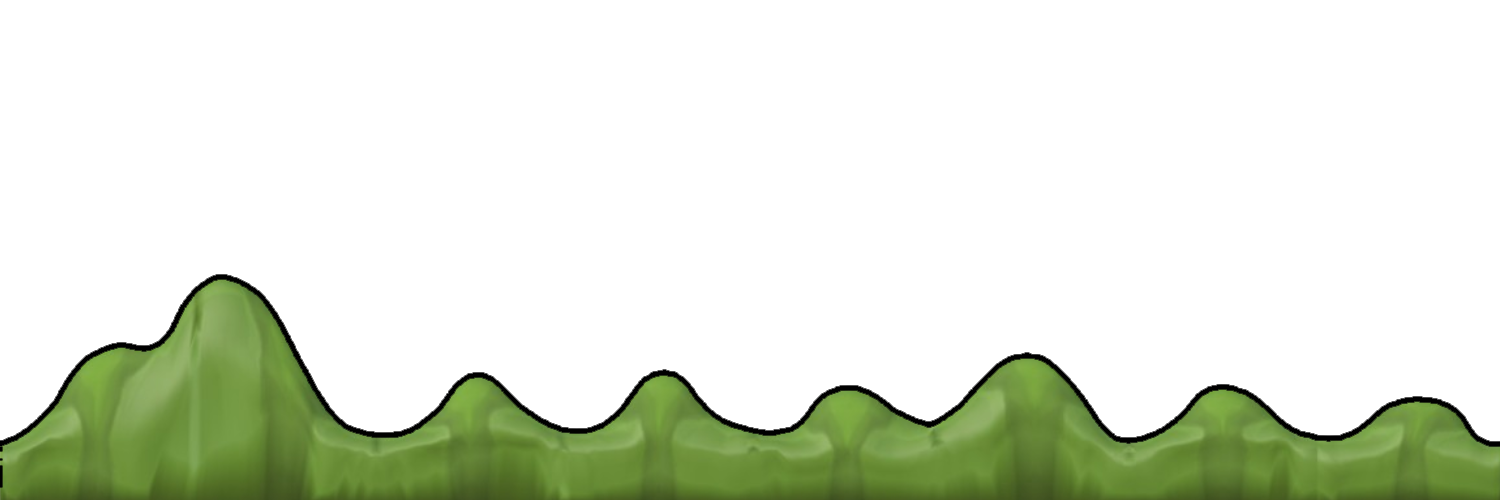
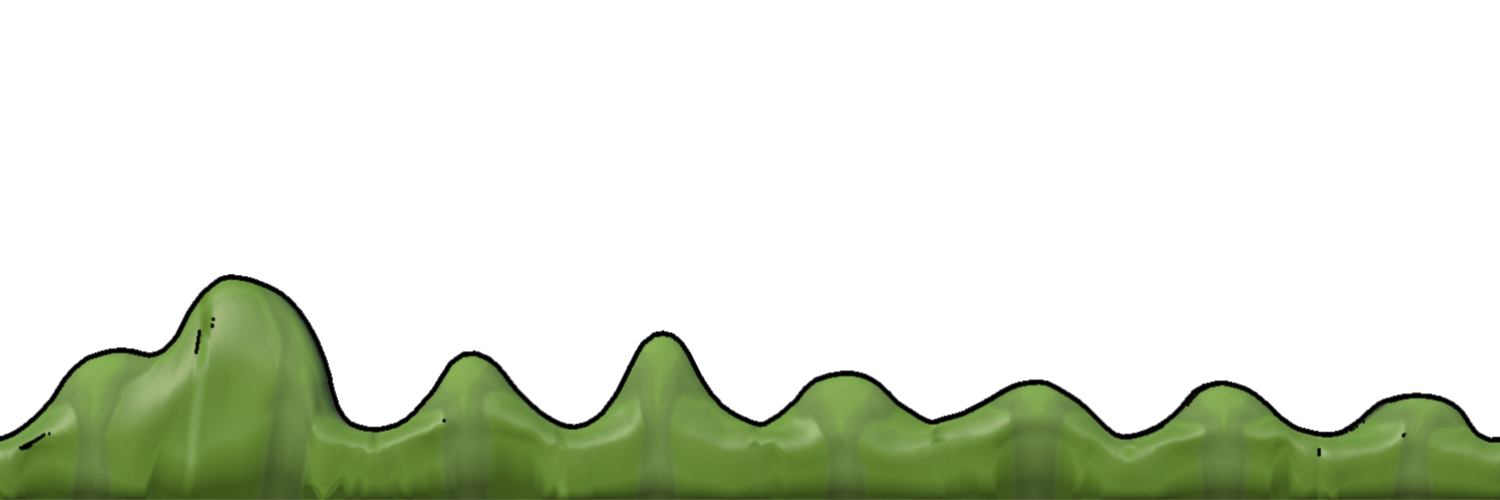
connard de commit qui marche pas

diff --git a/Game/LevelGenerator.cpp b/Game/LevelGenerator.cpp
@@ -7,14 +7,23 @@
 void LevelGenerator::Init(GameObject* playerObj) {
     player = playerObj;
 
-    hillAssets = { "Assets/Hchunk1.png" };
+    // Initialisation des listes d'assets
+    hillAssets = { "Assets/Hchunk1.png", "Assets/Hchunk2.png", "Assets/Hchunk3.png" };
     cloudAssets = { "Assets/Cchunk1.png", "Assets/Cchunk2.png", "Assets/Cchunk3.png" };
-    planetAssets = { "Assets/Pchunk.png" };
+    planetAssets = { "Assets/Pchunk1.png", "Assets/Pchunk2.png", "Assets/Pchunk.png" };
 
-    // Initialisation du sol
+    // Initialisation du sol (5 chunks de départ)
     for (int i = 0; i < 5; ++i) SpawnNextHill();
-    // Initialisation des premiers nuages et plan�tes
-    for (int i = 0; i < 3; ++i) SpawnCloud();
+
+    // Initialisation des nuages (3 colonnes de 2 étages = 6 nuages au total)
+    for (int i = 0; i < 3; ++i) {
+        SpawnCloudAt(nextCloudX, Y_CLOUD_LAYER_1);
+        SpawnCloudAt(nextCloudX, Y_CLOUD_LAYER_2);
+        nextCloudX += (CLOUD_WIDTH * CLOUD_SCALE);
+    }
+
+    // Initialisation planètes
+    for (int i = 0; i < 2; ++i) SpawnPlanet();
 }
 
 void LevelGenerator::Update(float dt) {
@@ -26,12 +35,14 @@ void LevelGenerator::Update(float dt) {
         SpawnNextHill();
     }
 
-    // Nuages : Succession sur deux �tages
+    // Nuages : On génère les deux couches en même temps sur l'axe X
     if (playerX + 5000.0f > nextCloudX) {
-        SpawnCloud();
+        SpawnCloudAt(nextCloudX, Y_CLOUD_LAYER_1);
+        SpawnCloudAt(nextCloudX, Y_CLOUD_LAYER_2);
+        nextCloudX += (CLOUD_WIDTH * CLOUD_SCALE);
     }
 
-    // Plan�tes : Succession infinie
+    // Planètes : Succession infinie
     if (playerX + 6000.0f > nextPlanetX) {
         SpawnPlanet();
     }
@@ -42,9 +53,9 @@ void LevelGenerator::SpawnNextHill() {
     GameObject* hill = nullptr;
 
     if (activeHills.size() < MAX_HILLS) {
-        hill = scene->CreateGameObject({ nextHillX, -20.0f }, "HillChunk");
+        hill = scene->CreateGameObject({ nextHillX, Y_GROUND }, "HillChunk");
         hill->GetTransform().scale = { HILL_SCALE, HILL_SCALE };
-        hill->SetZOrder(0);
+        hill->SetZOrder(10);
         auto* comp = hill->AddComponent<HillComponent>();
         comp->isOneWay = false;
         activeHills.push_back(hill);
@@ -53,30 +64,25 @@ void LevelGenerator::SpawnNextHill() {
         hill = activeHills.front();
         activeHills.erase(activeHills.begin());
         activeHills.push_back(hill);
-        hill->GetTransform().pos = { nextHillX, -20.0f };
+        hill->GetTransform().pos = { nextHillX, Y_GROUND };
     }
 
     auto* comp = hill->GetComponent<HillComponent>();
     if (comp) comp->InitFromImage(GetRandomAsset(hillAssets), 10);
 
-    nextHillX += (HILL_WIDTH * HILL_SCALE); // Succession exacte
+    nextHillX += (HILL_WIDTH * HILL_SCALE);
 }
 
-void LevelGenerator::SpawnCloud() {
+void LevelGenerator::SpawnCloudAt(float x, float targetY) {
     Scene* scene = owner->GetScene();
     GameObject* cloud = nullptr;
 
-    // Utilisation des variables CloudLayer1 et CloudLayer2
-    float targetY = alternateCloudHeight ? Y_CLOUD_LAYER_2 : Y_CLOUD_LAYER_1;
-    alternateCloudHeight = !alternateCloudHeight;
-
-    // Petite variation al�atoire pour casser la ligne droite parfaite
-    targetY += GetRandomFloat(-50.0f, 50.0f);
+    float finalY = targetY + GetRandomFloat(-50.0f, 50.0f);
 
     if (activeClouds.size() < MAX_CLOUDS) {
-        cloud = scene->CreateGameObject({ nextCloudX, targetY }, "CloudChunk");
+        cloud = scene->CreateGameObject({ x, finalY }, "CloudChunk");
         cloud->GetTransform().scale = { CLOUD_SCALE, CLOUD_SCALE };
-        cloud->SetZOrder(-5);
+        cloud->SetZOrder(-15);
         auto* comp = cloud->AddComponent<HillComponent>();
         comp->isOneWay = true;
         activeClouds.push_back(cloud);
@@ -85,26 +91,23 @@ void LevelGenerator::SpawnCloud() {
         cloud = activeClouds.front();
         activeClouds.erase(activeClouds.begin());
         activeClouds.push_back(cloud);
-        cloud->GetTransform().pos = { nextCloudX, targetY };
+        cloud->GetTransform().pos = { x, finalY };
     }
 
     auto* comp = cloud->GetComponent<HillComponent>();
     if (comp) comp->InitFromImage(GetRandomAsset(cloudAssets), 15);
-
-    nextCloudX += (CLOUD_WIDTH * CLOUD_SCALE); // Succession exacte
 }
 
 void LevelGenerator::SpawnPlanet() {
     Scene* scene = owner->GetScene();
     GameObject* planet = nullptr;
 
-    // Utilisation de la variable Y_PLANET_BASE
     float currentY = Y_PLANET_BASE + GetRandomFloat(-100.f, 100.f);
 
     if (activePlanets.size() < MAX_PLANETS) {
         planet = scene->CreateGameObject({ nextPlanetX, currentY }, "PlanetChunk");
         planet->GetTransform().scale = { PLANET_SCALE, PLANET_SCALE };
-        planet->SetZOrder(-10);
+        planet->SetZOrder(-20);
         auto* comp = planet->AddComponent<HillComponent>();
         comp->isOneWay = true;
         activePlanets.push_back(planet);
@@ -119,7 +122,7 @@ void LevelGenerator::SpawnPlanet() {
     auto* comp = planet->GetComponent<HillComponent>();
     if (comp) comp->InitFromImage(GetRandomAsset(planetAssets), 20);
 
-    nextPlanetX += (PLANET_WIDTH * PLANET_SCALE); // Succession exacte
+    nextPlanetX += (PLANET_WIDTH * PLANET_SCALE);
 }
 
 std::string LevelGenerator::GetRandomAsset(const std::vector<std::string>& assets) {
@@ -129,5 +132,5 @@ std::string LevelGenerator::GetRandomAsset(const std::vector<std::string>& asset
 
 float LevelGenerator::GetRandomFloat(float min, float max) {
     if (min > max) std::swap(min, max);
-    return min + static_cast<float>(rand()) / (RAND_MAX / (max - min));
+    return min + static_cast<float>(rand()) / (static_cast<float>(RAND_MAX / (max - min)));
 }

diff --git a/Game/BaseScene.h b/Game/BaseScene.h
@@ -15,7 +15,7 @@
 class BaseScene : public Scene
 {
 private:
-	GameObject* player = CreateGameObject({ 240, 120 }, "Player");
+	GameObject* player = CreateGameObject({ 500, -800 }, "Player");
 
 protected:
 
